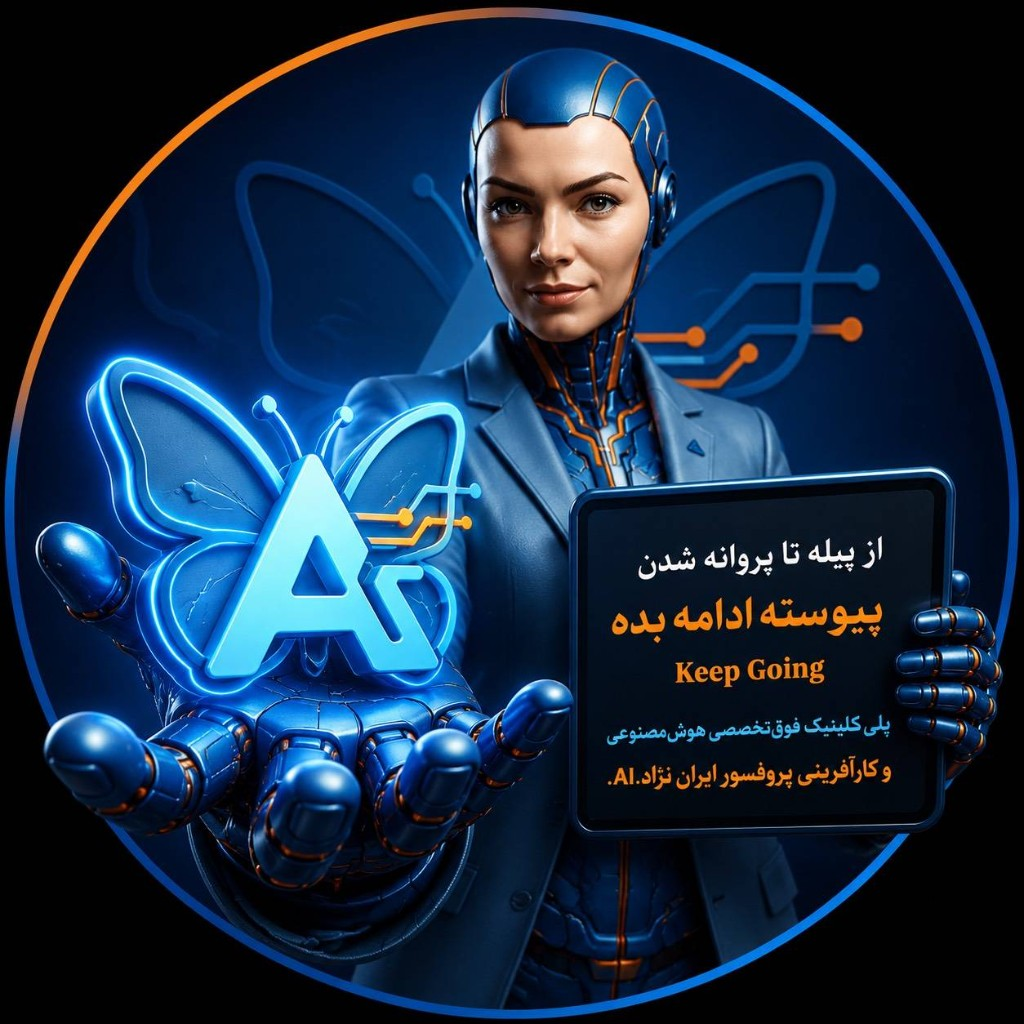
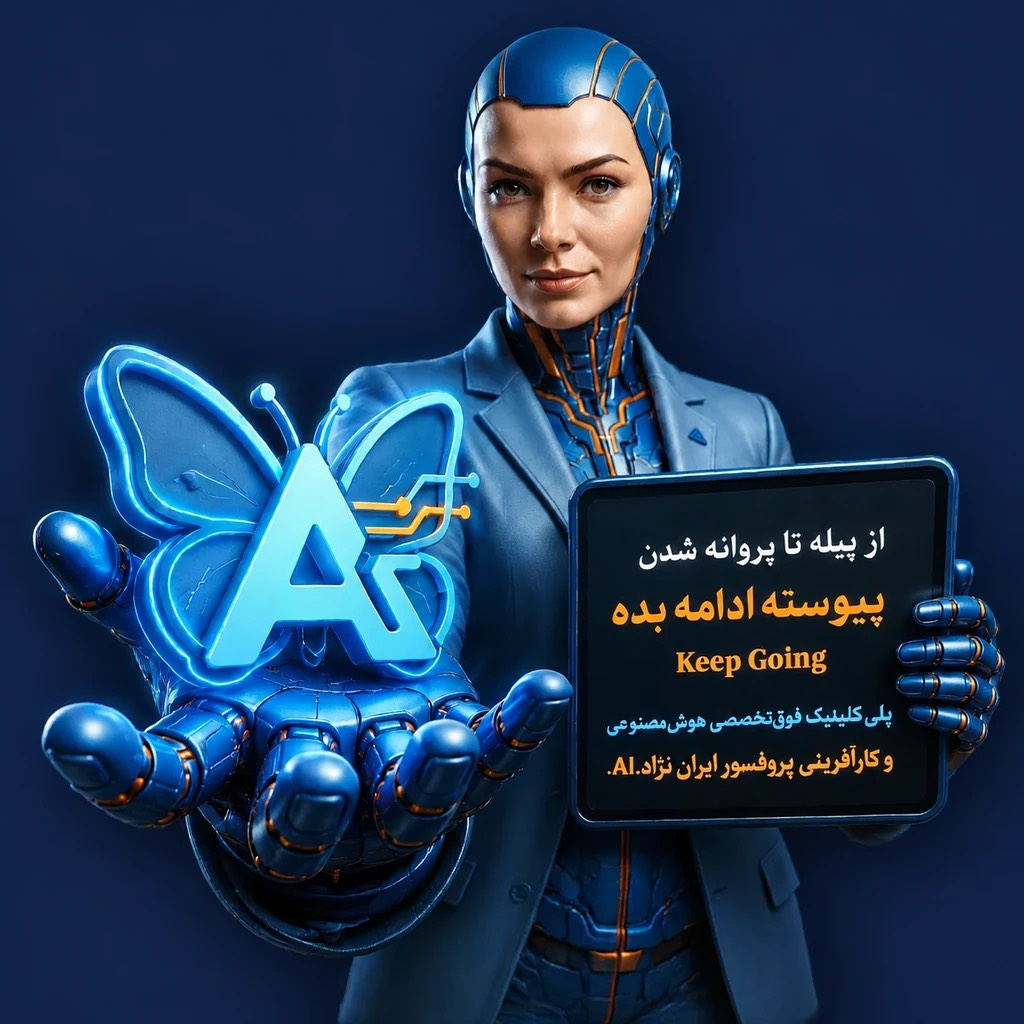
up

diff --git a/src/app/[locale]/page.tsx b/src/app/[locale]/page.tsx
@@ -33,16 +33,34 @@ export default async function HomePage({
       </section>
 
       <div className="mx-auto w-[min(1120px,calc(100%-32px))]">
-        <section className="grid items-center gap-8 py-10 md:grid-cols-[1.15fr_0.85fr]">
-          <div>
-            <h2 className="text-3xl font-extrabold leading-snug text-ink md:text-4xl">
+        <section className="grid items-start gap-8 py-10 md:grid-cols-[1.2fr_0.8fr]">
+          <div className="min-w-0 text-justify [text-align-last:start]">
+            {fa ? (
+              <div className="space-y-3 text-[15px] leading-8 text-ink md:text-base md:leading-8">
+                <h2 className="text-[15px] font-extrabold leading-8 md:text-base md:leading-8">
+                  انسانِ امروزی در یک بستر کاملاً جدید و دگرگونشده زندگی میکند که در آن تمام معناهای سنتیِ زیستن، ارتباط برقرار کردن، کار کردن و موفق شدن دچار دگرگونی شدهاند.
+                </h2>
+                <p>
+                  سرعت تحولات به قدری بالاست که تجربهی زیستهی نسلها با هم متفاوت شده است. مفاهیمی مثل موفقیت، ارتباط، آرامش و هویت، دیگر تعریفهای ثابتی ندارند و مدام در حال نو شدن هستند.
+                </p>
+                <p>
+                  همانگونه که سیستم بدن انسان با حواس پنجگانه کار میکند؛ سیستم موفقیت در عصر مدرنیته هم با «هوش پنجگانه» کار میکند؛
+                </p>
+                <p>
+                  انسانِ مدرن به نوعی سازگاریِ ساختاری و چندبعدی (همان هوشهای پنجگانه) نیاز دارد تا در این دنیای پر از ابهام و تحول، دچار فروپاشی روانی یا سردرگمی آموزشی نشود.
+                </p>
+                <p className="font-extrabold">
+                  آیا آمادهی جهش در عصر مدرن هستید؟ همین حالا مهارتهای هوش هیجانی، هوش ارتباطی، هوش مصنوعی، هوش مالی و هوش تجاری خودت را تقویت کن.
+                </p>
+              </div>
+            ) : (
+              <h2 className="text-3xl font-extrabold leading-snug text-ink md:text-4xl">
+                Specialized & superspecialized polyclinic of entrepreneurship and AI, Dr. Irannejad
+              </h2>
+            )}
+            <p className="mt-4 text-sm leading-7 text-muted md:text-base">
               {fa
-                ? "پلیکلینیک تخصصی و فوقتخصصی کارآفرینی و هوش مصنوعی دکتر ایراننژاد"
-                : "Specialized & superspecialized polyclinic of entrepreneurship and AI, Dr. Irannejad"}
-            </h2>
-            <p className="mt-3 max-w-xl text-sm leading-7 text-muted md:text-base">
-              {fa
-                ? "دوره، آزمون و مشاوره در یک مسیر. کارت عضویت باشگاه کارآفرینی بعد از ثبتنام صادر میشود و گواهینامه بعد از پایان دوره."
+                ? "دوران آموزش جزیرهای منسوخ شده، با ما سیستماتیک و مدرن آموزش ببین و به درخشانترین نسخهی خودت تبدیل شو."
                 : "Courses, tests, and consultation in one path. The Entrepreneurship Club card is issued after registration, and the certificate after you finish the course."}
             </p>
             <p className="sr-only">{clinicBanner}</p>
@@ -59,14 +77,14 @@ export default async function HomePage({
             </div>
           </div>
           <Image
-            src="/brand/hooshay.jpg"
+            src="/brand/hooshay.png"
             alt={fa ? "هوشای، کاراکتر تجاری کلینیک" : "Hooshay, the clinic character"}
-            width={420}
-            height={420}
-            sizes="(max-width: 768px) 280px, 320px"
-            quality={75}
+            width={819}
+            height={819}
+            sizes="(max-width: 768px) 90vw, 480px"
+            quality={85}
             priority
-            className="mx-auto w-full max-w-[280px] rounded-full object-cover md:max-w-[320px]"
+            className="mx-auto w-full min-w-0 max-w-[360px] object-contain md:max-w-[440px]"
           />
         </section>
 

diff --git a/src/components/Footer.tsx b/src/components/Footer.tsx
@@ -1,5 +1,5 @@
 import Link from "next/link";
-import { sisterSites } from "@/lib/content";
+import { sisterSites, socialChannels } from "@/lib/content";
 import type { Dictionary } from "@/lib/dictionary";
 import { localePath } from "@/lib/i18n";
 import { navGroups } from "@/lib/nav";
@@ -71,6 +71,22 @@ export function Footer({ locale, t }: { locale: Locale; t: Dictionary }) {
               <BrandLogo locale={locale} compact stacked />
             </Link>
             <p className="mt-3 text-sm leading-7 text-muted">{t.footer.blurb}</p>
+            <p className="mt-5 text-sm font-extrabold text-ink">
+              {locale === "fa" ? "کانالها" : "Channels"}
+            </p>
+            <div className="mt-2 flex flex-col gap-2 text-sm leading-6 text-muted">
+              {socialChannels.map((channel) => (
+                <a
+                  key={channel.id}
+                  href={channel.href}
+                  target="_blank"
+                  rel="noreferrer"
+                  className="w-fit hover:text-primary"
+                >
+                  {locale === "fa" ? channel.labelFa : channel.labelEn}
+                </a>
+              ))}
+            </div>
           </div>
           {groups.map((group) => (
             <div key={group.title} className="min-w-0">
@@ -97,7 +113,21 @@ export function Footer({ locale, t }: { locale: Locale; t: Dictionary }) {
         </div>
       </div>
       <div className="mx-auto w-[min(1180px,calc(100%-32px))] py-6 lg:hidden">
-        <p className="text-sm font-extrabold">{locale === "fa" ? "سایتهای زیرمجموعه" : "Sister sites"}</p>
+        <p className="text-sm font-extrabold">{locale === "fa" ? "کانالها" : "Channels"}</p>
+        <div className="mt-3 flex flex-wrap gap-2 text-xs">
+          {socialChannels.map((channel) => (
+            <a
+              key={channel.id}
+              href={channel.href}
+              target="_blank"
+              rel="noreferrer"
+              className="rounded-full bg-bg px-3 py-1.5 font-bold text-muted hover:text-primary"
+            >
+              {locale === "fa" ? channel.labelFa : channel.labelEn}
+            </a>
+          ))}
+        </div>
+        <p className="mt-5 text-sm font-extrabold">{locale === "fa" ? "سایتهای زیرمجموعه" : "Sister sites"}</p>
         <div className="mt-3 flex flex-wrap gap-2 text-xs">
           {sisterSites.map((site) => (
             <span key={site.name} className="rounded-full bg-bg px-3 py-1.5 font-bold text-muted">

diff --git a/src/components/Hooshay.tsx b/src/components/Hooshay.tsx
@@ -27,7 +27,7 @@ export function Hooshay() {
           className="mb-3 w-[min(340px,calc(100vw-32px))] overflow-hidden rounded-3xl border border-border bg-surface shadow-lg"
         >
           <div className="flex items-center gap-3 bg-primary px-4 py-3 text-white">
-            <Image src="/brand/hooshay.jpg" alt="" width={40} height={40} sizes="40px" className="rounded-full object-cover" />
+            <Image src="/brand/hooshay.png" alt="" width={40} height={40} sizes="40px" className="rounded-full object-cover object-top" />
             <div className="min-w-0 flex-1">
               <p className="text-sm font-extrabold">هوشای</p>
               <p className="text-[11px] text-white/80">{sloganEn}</p>
@@ -80,7 +80,7 @@ export function Hooshay() {
         aria-label="گفتگو با هوشای"
         className="flex items-center gap-2 rounded-full bg-accent px-3 py-2 text-sm font-extrabold text-white shadow-md hover:brightness-110"
       >
-        <Image src="/brand/hooshay.jpg" alt="" width={28} height={28} sizes="28px" className="rounded-full object-cover" />
+        <Image src="/brand/hooshay.png" alt="" width={28} height={28} sizes="28px" className="rounded-full object-cover object-top" />
         هوشای
       </button>
     </div>

diff --git a/src/app/[locale]/contact/page.tsx b/src/app/[locale]/contact/page.tsx
@@ -1,4 +1,5 @@
 import { EnrollForm } from "@/components/EnrollForm";
+import { socialChannels } from "@/lib/content";
 import { getDictionary } from "@/lib/dictionary";
 import { isLocale } from "@/lib/i18n";
 import { notFound } from "next/navigation";
@@ -29,6 +30,22 @@ export default async function ContactPage({ params }: ContactPageProps) {
           <div>
             <p className="text-xs font-bold text-faint">{t.contact.address}</p>
             <p className="mt-1 max-w-sm leading-8 text-muted">{t.contact.addressValue}</p>
+          </div>
+          <div>
+            <p className="text-xs font-bold text-faint">{locale === "fa" ? "کانالها" : "Channels"}</p>
+            <div className="mt-1 flex flex-col gap-1">
+              {socialChannels.map((channel) => (
+                <a
+                  key={channel.id}
+                  href={channel.href}
+                  target="_blank"
+                  rel="noreferrer"
+                  className="font-bold text-ink hover:text-primary"
+                >
+                  {locale === "fa" ? channel.labelFa : channel.labelEn}
+                </a>
+              ))}
+            </div>
           </div>
         </div>
       </section>

diff --git a/src/lib/content.ts b/src/lib/content.ts
@@ -16,6 +16,25 @@ export const licenses = [
 
 export const zizaaStoreUrl = "https://zizaa.ir/";
 
+export const socialChannels = [
+  {
+    id: "eitaa",
+    nameFa: "ایتا",
+    nameEn: "Eitaa",
+    labelFa: "کانال ایتا",
+    labelEn: "Eitaa channel",
+    href: "https://eitaa.com/ClinicDrIrannejad",
+  },
+  {
+    id: "bale",
+    nameFa: "بله",
+    nameEn: "Bale",
+    labelFa: "کانال بله",
+    labelEn: "Bale channel",
+    href: "https://ble.ir/join/N2FkNTc1YT",
+  },
+] as const;
+
 export const sisterSites: {
   name: string;
   nameEn: string;

diff --git a/scripts/remove-hooshay-bg.py b/scripts/remove-hooshay-bg.py
@@ -1,0 +1,65 @@
+from collections import deque
+from pathlib import Path
+
+import numpy as np
+from PIL import Image
+
+src = Path(r"F:\academy irannejad\academy-web\public\brand\hooshay.jpg")
+out = Path(r"F:\academy irannejad\academy-web\public\brand\hooshay.png")
+
+img = Image.open(src).convert("RGBA")
+arr = np.array(img)
+h, w = arr.shape[:2]
+rgb = arr[:, :, :3].astype(np.int16)
+
+corners = np.vstack(
+    [
+        rgb[0:8, 0:8].reshape(-1, 3),
+        rgb[0:8, -8:].reshape(-1, 3),
+        rgb[-8:, 0:8].reshape(-1, 3),
+        rgb[-8:, -8:].reshape(-1, 3),
+        rgb[0:6, w // 2 - 8 : w // 2 + 8].reshape(-1, 3),
+    ]
+)
+bg = np.median(corners, axis=0)
+
+hard = 38
+soft = 58
+
+diff = np.sqrt(((rgb - bg) ** 2).sum(axis=2))
+visited = np.zeros((h, w), dtype=bool)
+is_bg = np.zeros((h, w), dtype=bool)
+
+q = deque()
+for x in range(w):
+    q.append((0, x))
+    q.append((h - 1, x))
+for y in range(h):
+    q.append((y, 0))
+    q.append((y, w - 1))
+
+while q:
+    y, x = q.popleft()
+    if visited[y, x]:
+        continue
+    visited[y, x] = True
+    if diff[y, x] > soft:
+        continue
+    is_bg[y, x] = True
+    if y > 0:
+        q.append((y - 1, x))
+    if y + 1 < h:
+        q.append((y + 1, x))
+    if x > 0:
+        q.append((y, x - 1))
+    if x + 1 < w:
+        q.append((y, x + 1))
+
+alpha = np.full((h, w), 255, dtype=np.uint8)
+alpha[is_bg & (diff <= hard)] = 0
+fade = is_bg & (diff > hard) & (diff <= soft)
+alpha[fade] = np.clip(((diff[fade] - hard) / (soft - hard) * 255), 0, 255).astype(np.uint8)
+
+arr[:, :, 3] = alpha
+Image.fromarray(arr).save(out, "PNG")
+print(f"saved {out} transparent={(alpha == 0).sum()} faded={fade.sum()} kept={(alpha == 255).sum()}")
